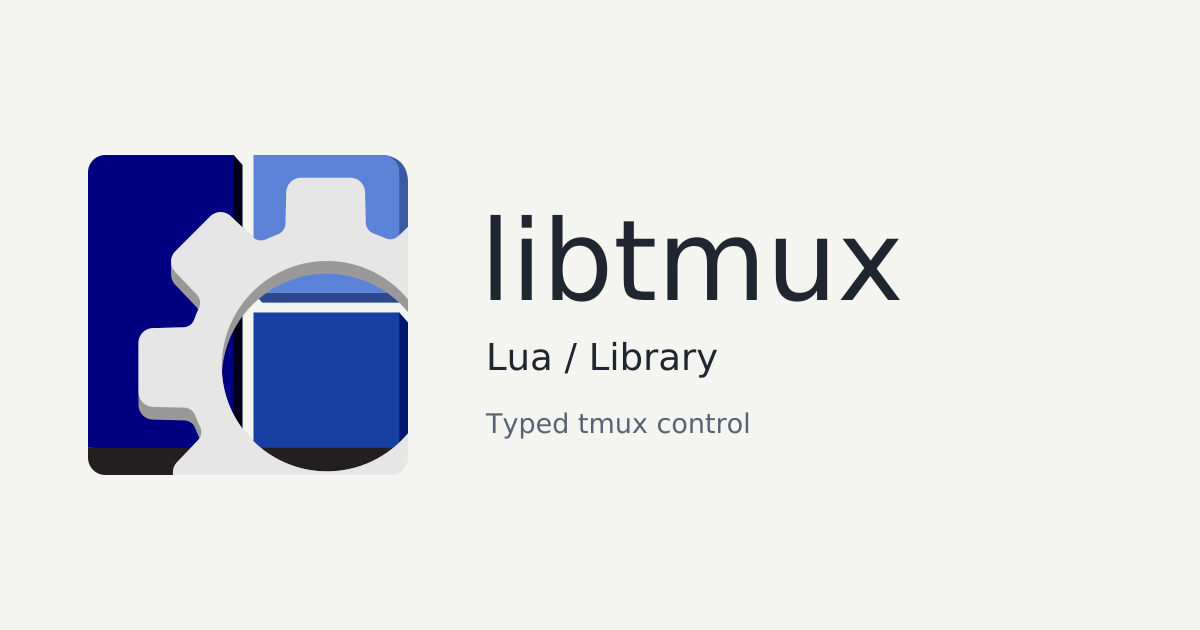
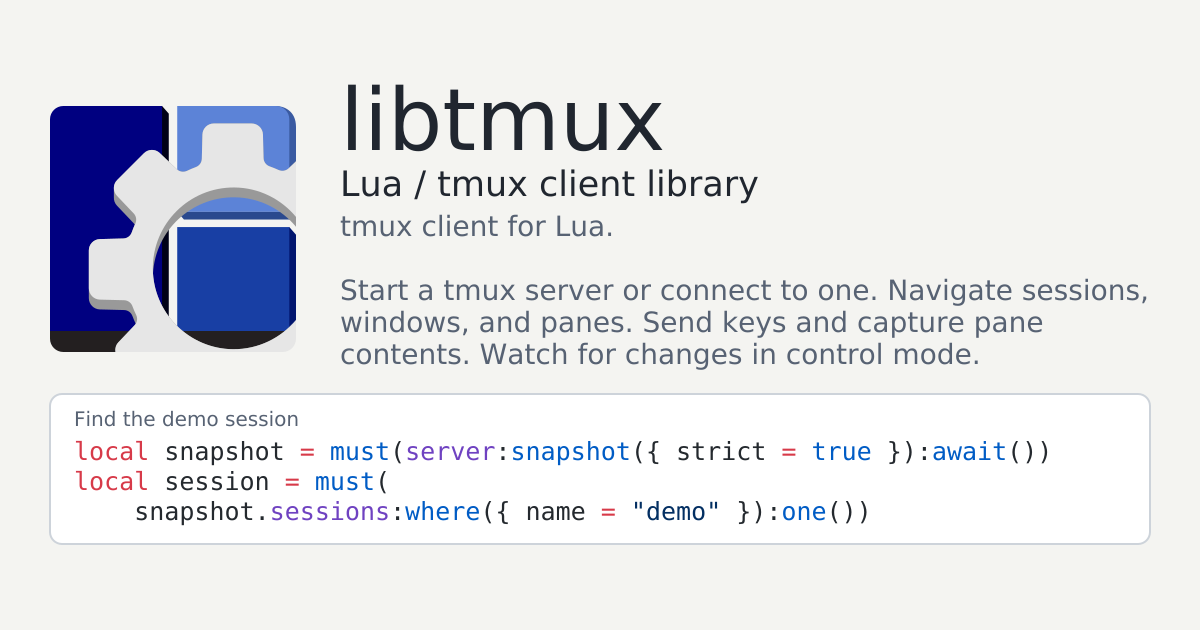
Docs(brand): Show a query on the sharing card
why: Sharing a library link should show how to query tmux in that
language.

what:
- Copy the reviewed sharing artwork and record its source revision

Changed region(s): [[0.0308, 0.1206, 0.9558, 0.8746]]

diff --git a/assets/README.md b/assets/README.md
@@ -15,3 +15,6 @@ supports it: `lua/libtmux/assets`, `packages/mcp/assets` and
 with the centered logo block and rejects art that belongs to another product.
 `.github/social-preview.png` is the cog sharing card, ready to upload under the
 repository's **Settings → Social preview**.
+
+The sharing card comes from `assets/lua/library/opengraph-light.png`
+at kit revision `c9688d9db25e4c522ff1255d0f3badaf27d780dd`.
